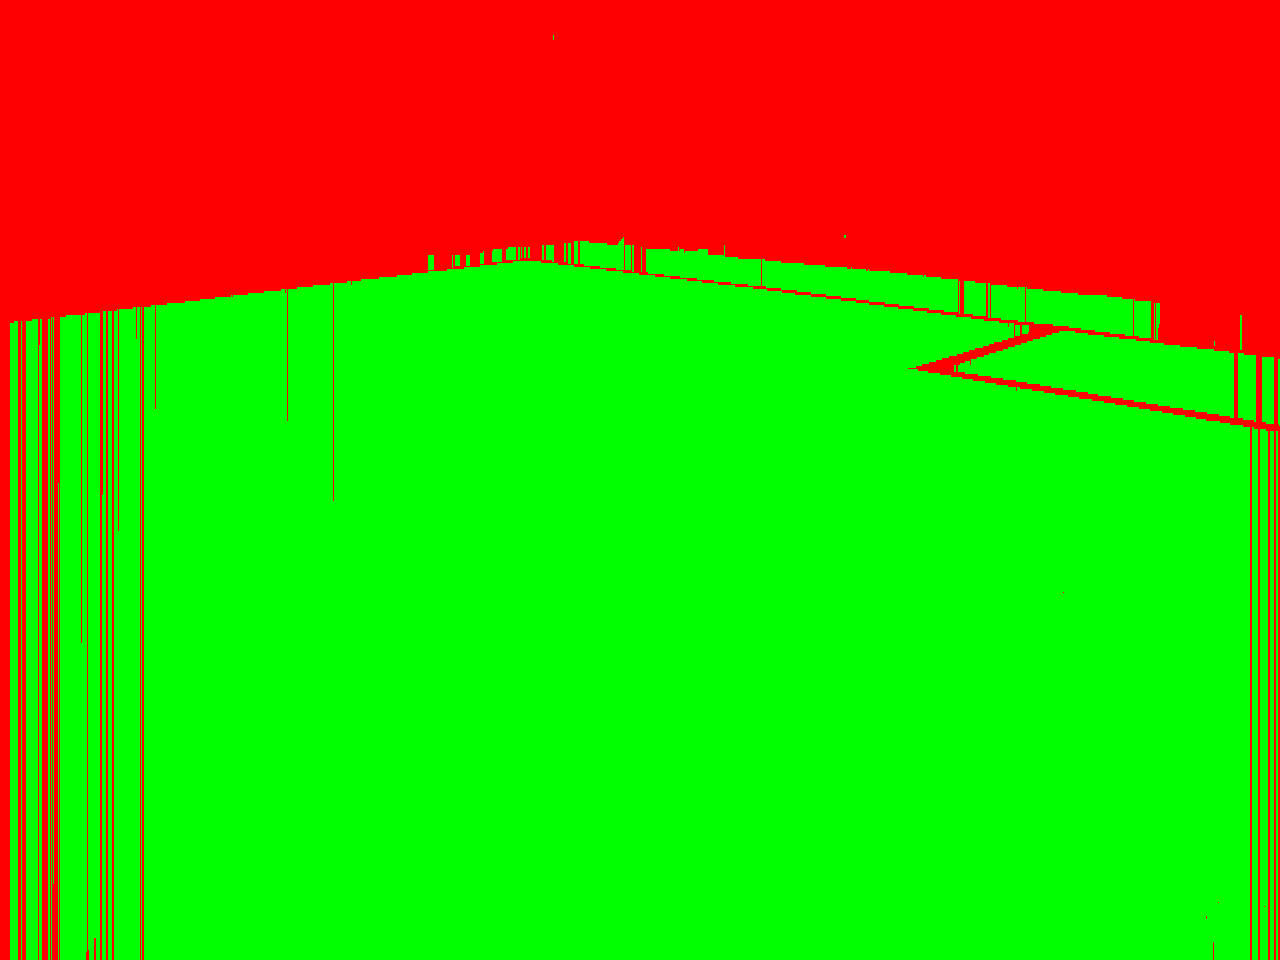
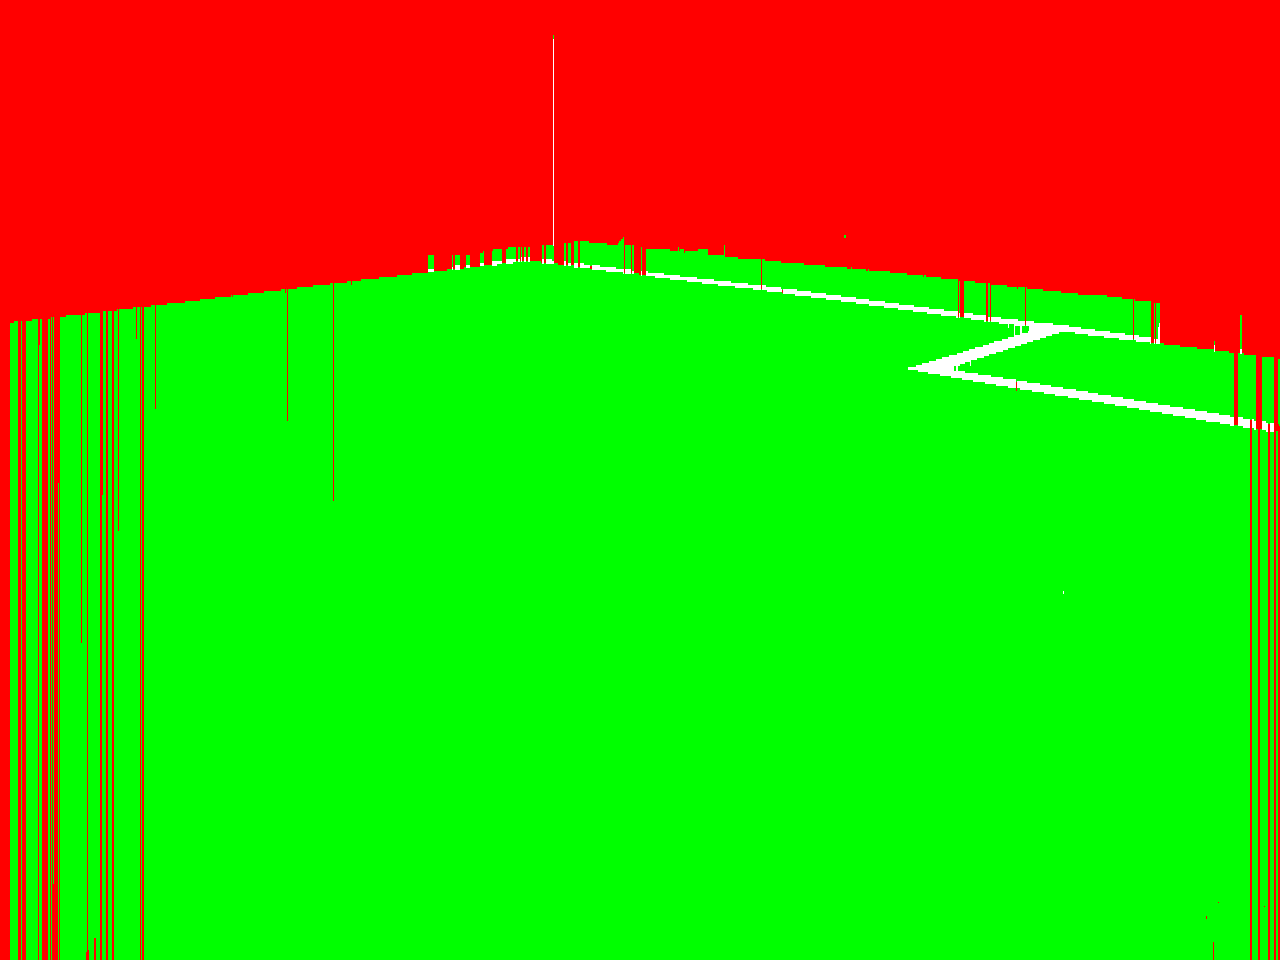
Added line drawing

diff --git a/main.cpp b/main.cpp
@@ -316,7 +316,20 @@ void classifyRegions(cv::Mat &image, cv::Mat &imageRegions, std::vector<cv::Vec2
     }
   }
 
+for(int i = 0; i < unknownRegions.size(); i++) {
 
+  if(unknownRegions[i][0] > 0 && unknownRegions[i][2] < image.size().height ) {
+    if( image.at<cv::Vec3b>(unknownRegions[i][0]-1,unknownRegions[i][1])[0] < image.at<cv::Vec3b>( unknownRegions[i][0],unknownRegions[i][1])[0] ) {
+      if(image.at<cv::Vec3b>(unknownRegions[i][2]+1,unknownRegions[i][1])[0] < image.at<cv::Vec3b>( unknownRegions[i][2],unknownRegions[i][1])[0]) {
+
+        lineRegions.push_back(unknownRegions[i]);
+
+      }
+    }
+  }
+
+
+}
 
 }
 
